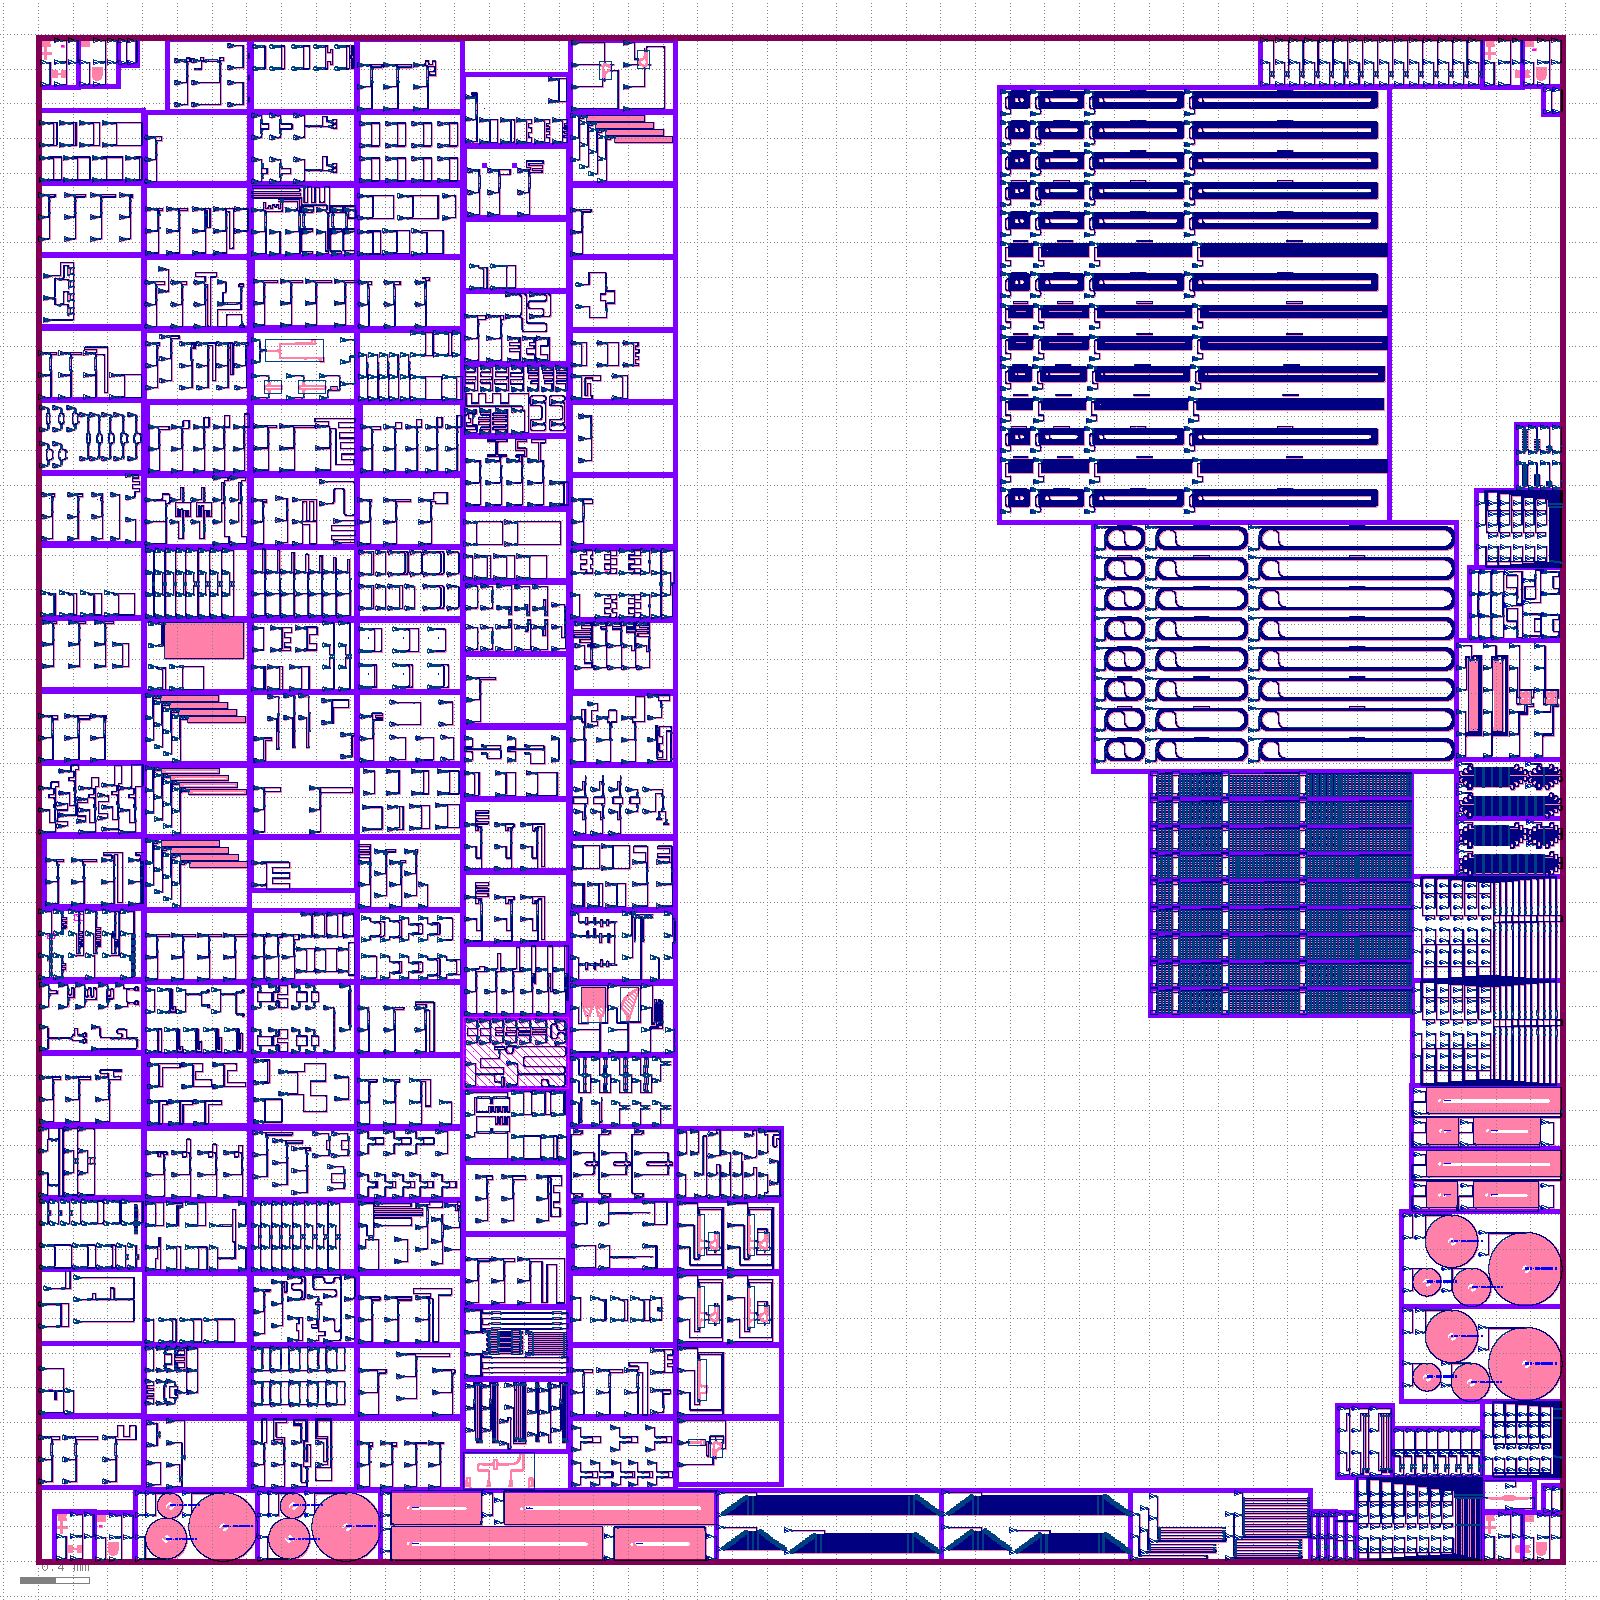
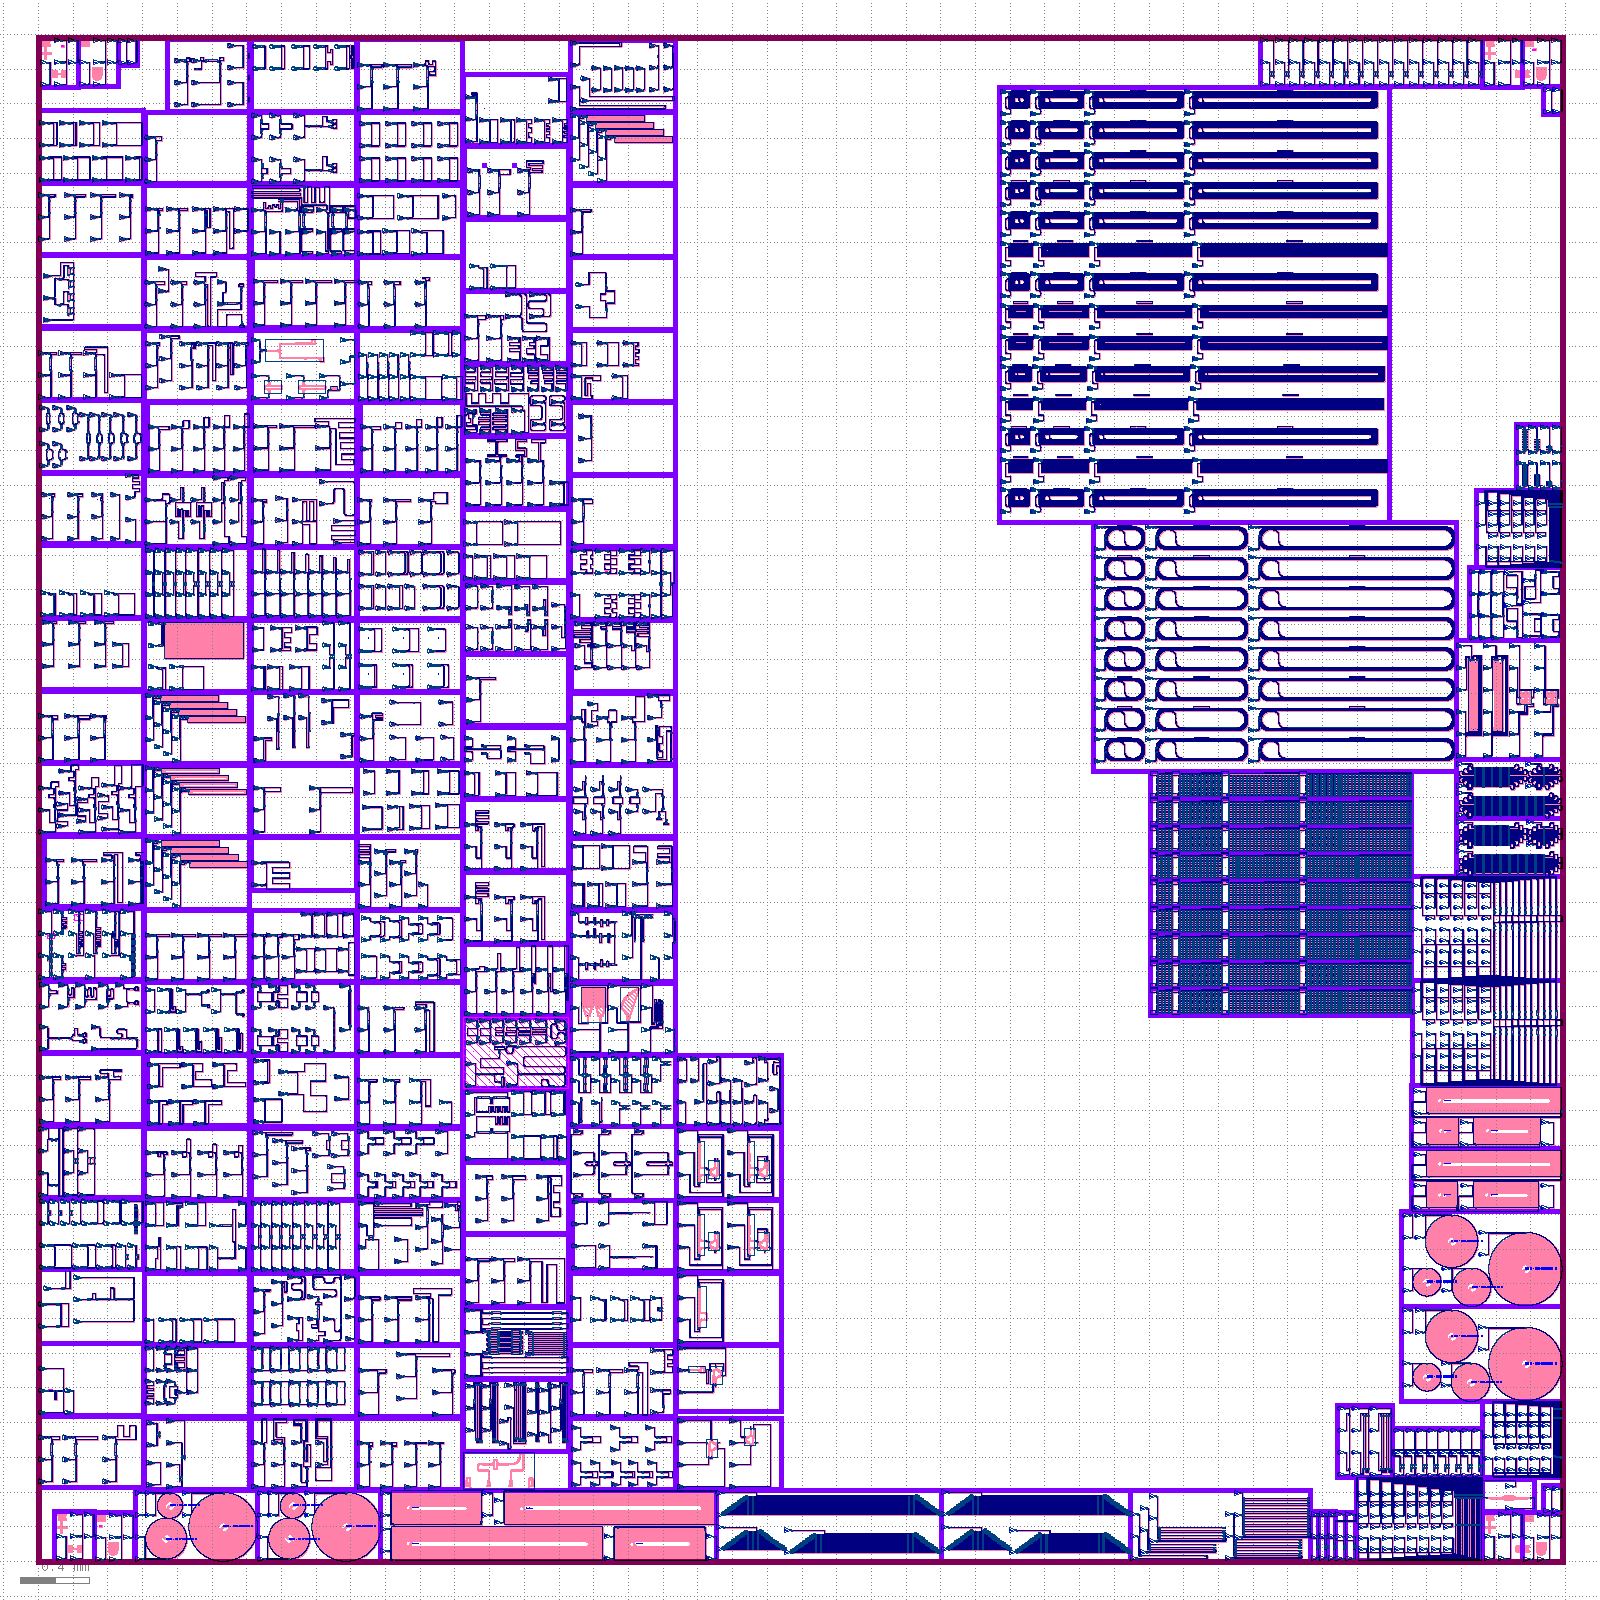
Aggregation layout: https://github.com/SiEPIC/openEBL-2026-10/actions/runs/37946328068/artifacts/11624375823

Changed region(s): [[0.4062, 0.7812, 0.5, 0.9375], [0.4062, 0.6562, 0.5, 0.75], [0.3438, 0.0312, 0.4375, 0.0938]]

diff --git a/README.md b/README.md
@@ -103,5 +103,5 @@ The verification and merging is performed using GitHub actions. The repository i
 
 Click on the following link to download the EBeam.oas merged layout file:
 <!-- start-link -->
-https://github.com/SiEPIC/openEBL-2026-10/actions/runs/37897218154/artifacts/11600359406
+https://github.com/SiEPIC/openEBL-2026-10/actions/runs/37946328068/artifacts/11624375823
 <!-- end-link -->
